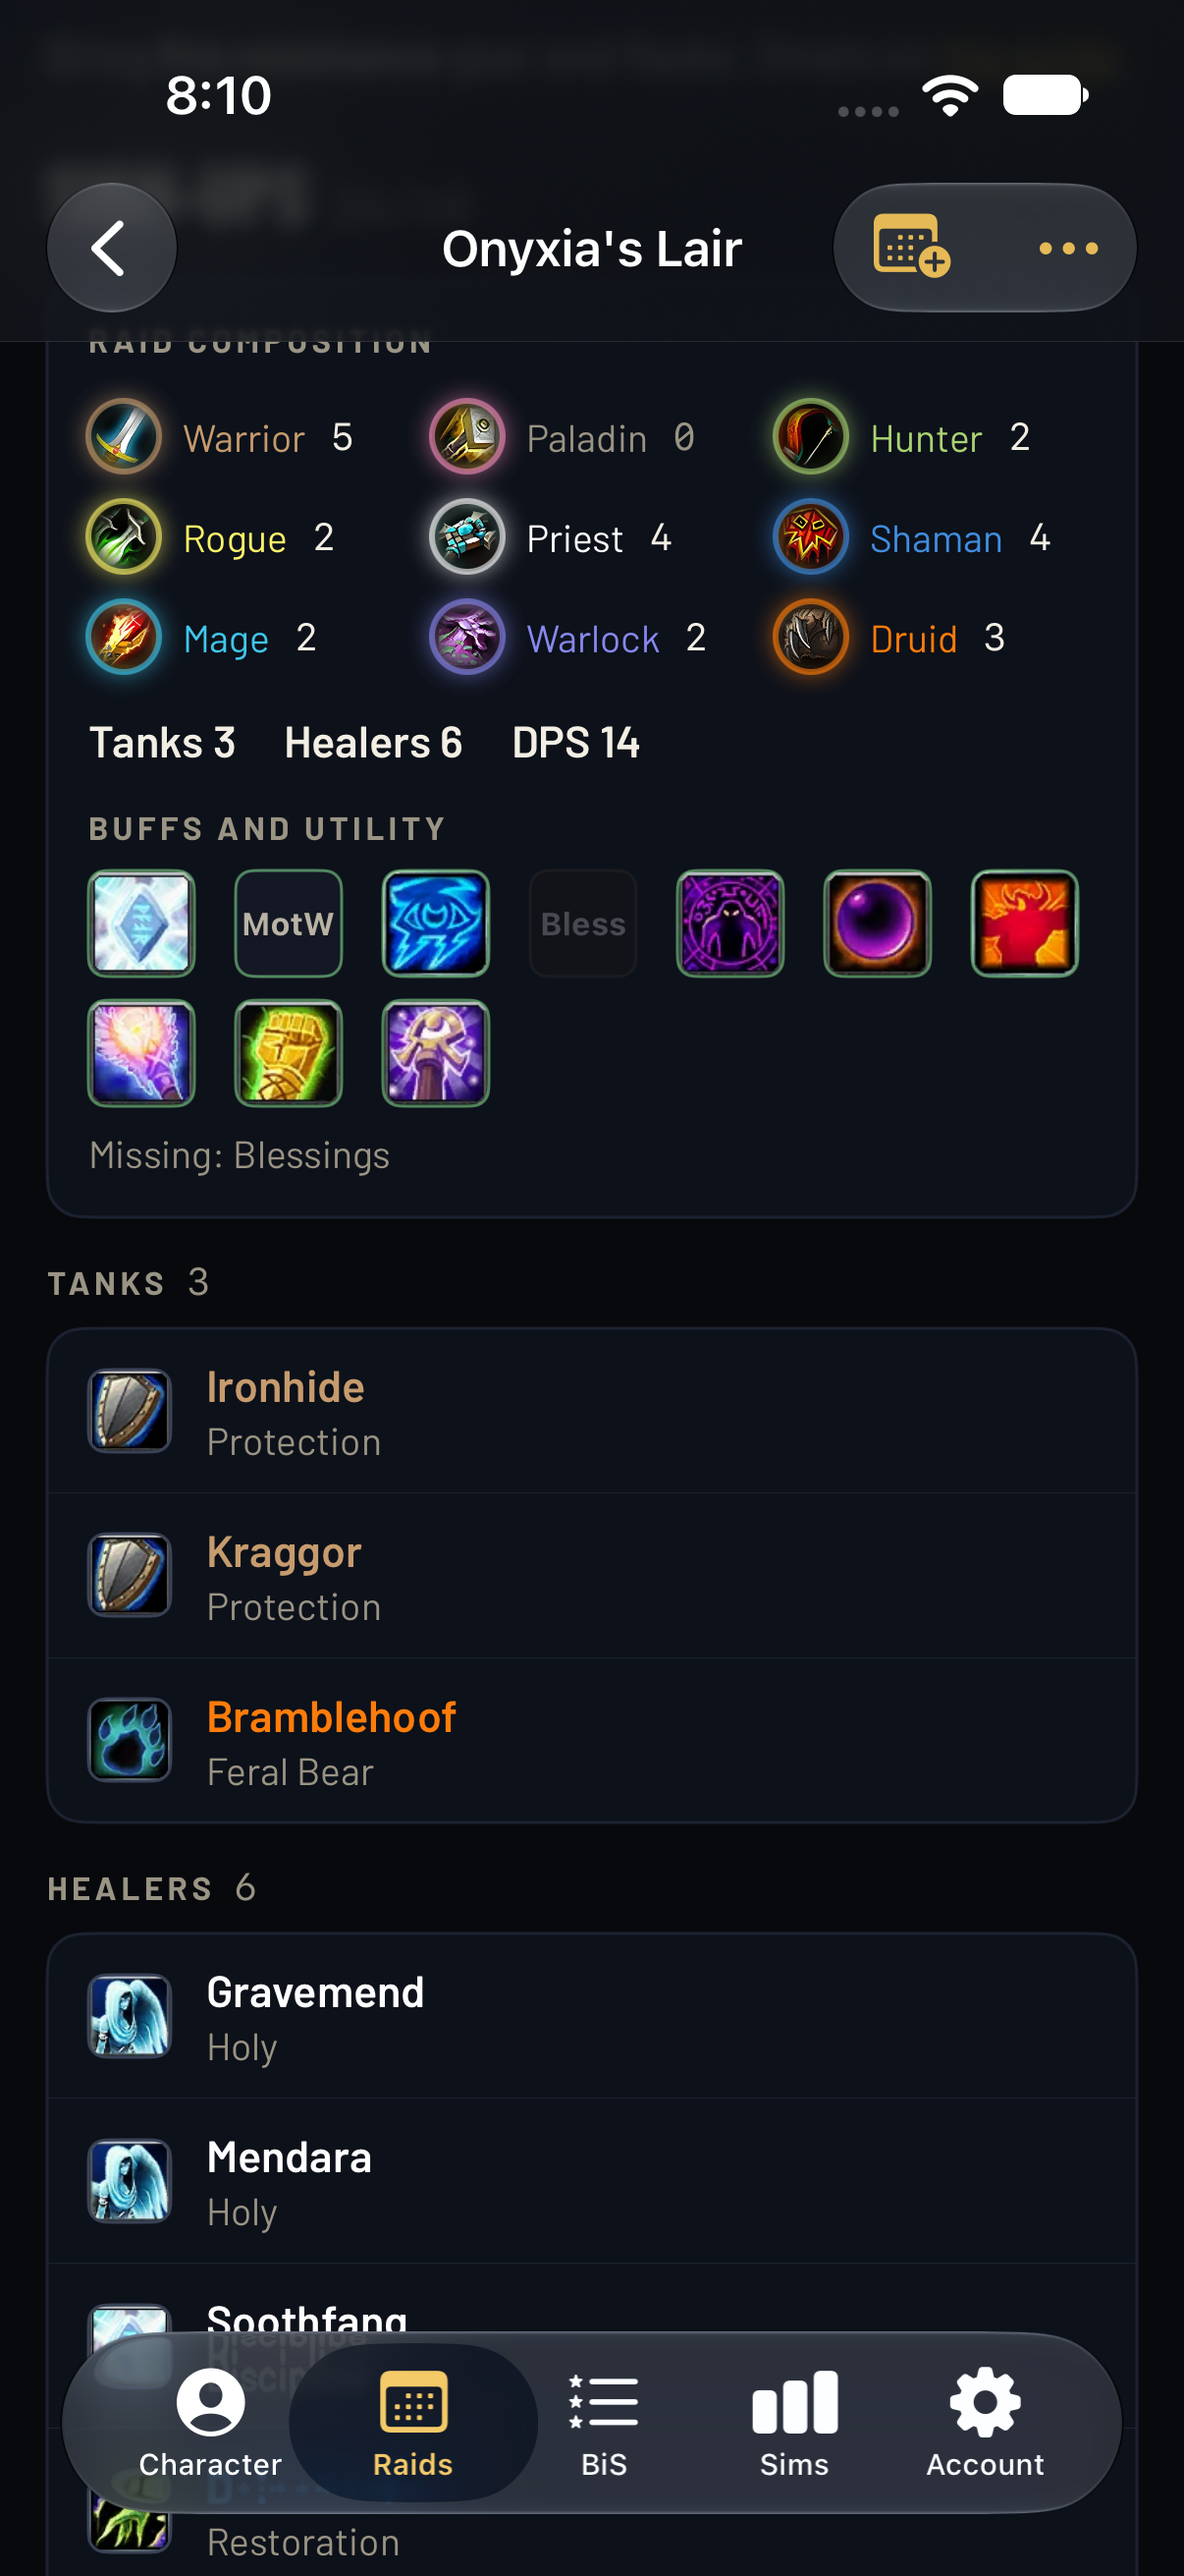
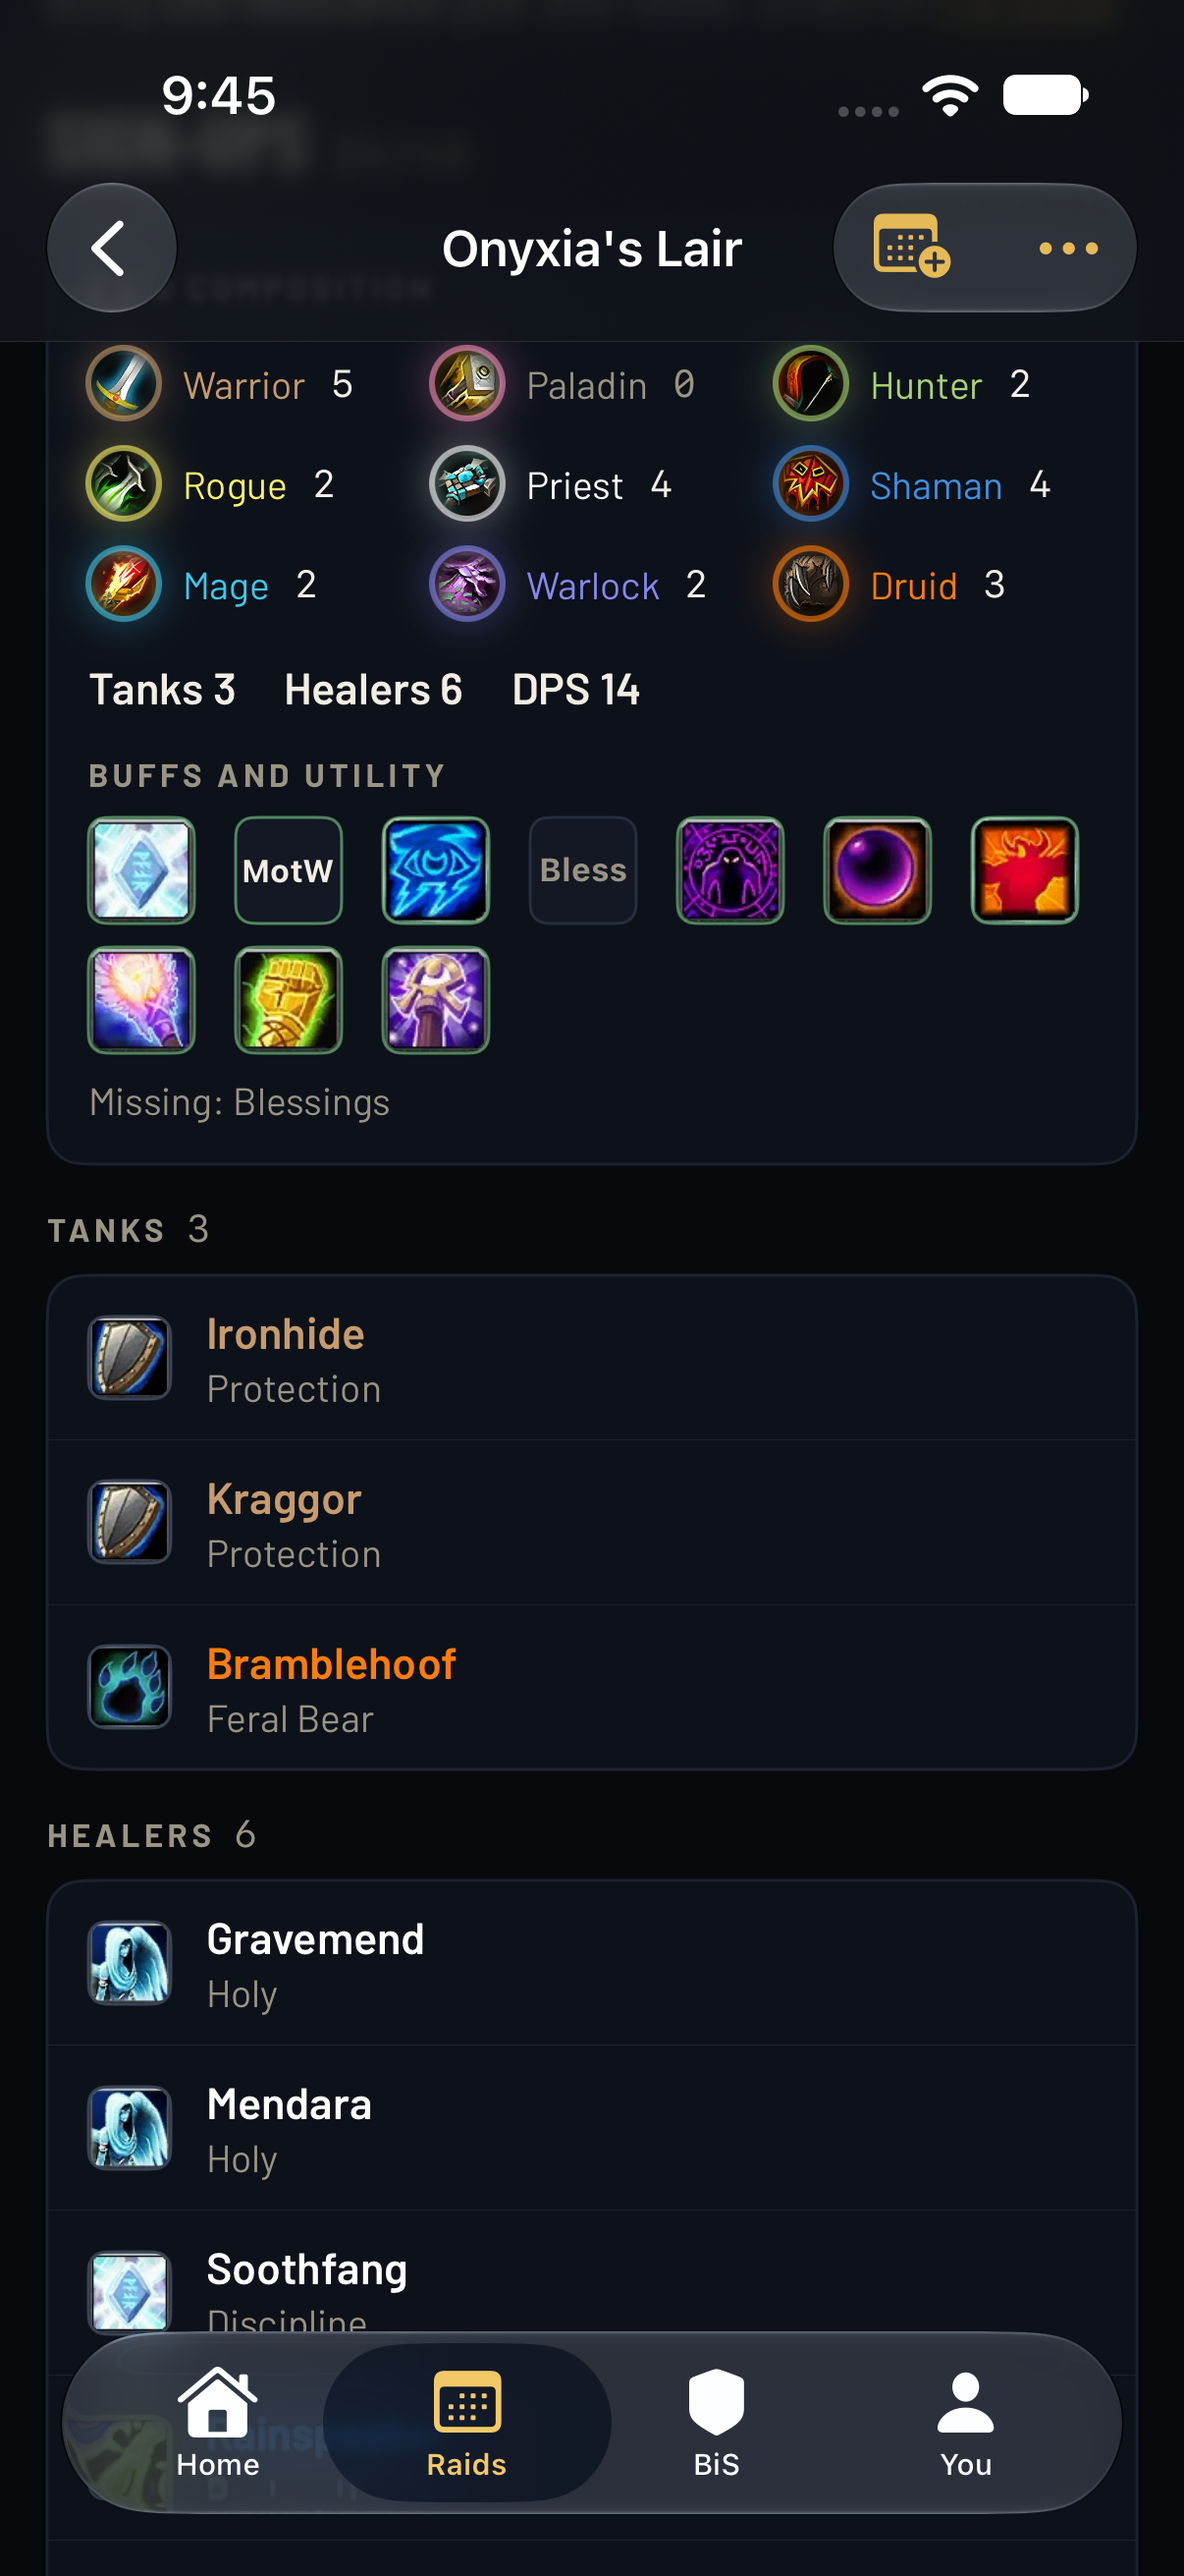
fix(ios): the Raids bar matches Home and BiS under the selector; integration C captures
Captures in design/reviews/2026-10-31-mobile-raids: the selector on Home, Raids and BiS on
both platforms (Android at font scale 1.0, 1.3 and 2.0), and the composition block with live
icons and the readable Bless label.

diff --git a/apps/ios/UITests/RaidCaptureTests.swift b/apps/ios/UITests/RaidCaptureTests.swift
@@ -104,11 +104,15 @@ final class RaidCaptureTests: XCTestCase {
     /// (the same toolbar slot as Home and BiS), then Home's for the side-by-side.
     func testRaidsTabUnderTheSelector() throws {
         let app = launch(["-FSTab", "you"])
-        let signIn = app.buttons["Sign in with Battle.net"].firstMatch
-        XCTAssertTrue(signIn.waitForExistence(timeout: 15))
-        signIn.tap()
+        // A session kept from an earlier run is already signed in (You shows Sign out).
+        let signIn = app.buttons.matching(NSPredicate(format: "label CONTAINS[c] 'Battle.net'")).firstMatch
+        if !app.buttons["Sign out"].waitForExistence(timeout: 5) {
+            XCTAssertTrue(signIn.waitForExistence(timeout: 15))
+            signIn.tap()
+        }
         app.tabBars.buttons["Raids"].tap()
-        XCTAssertTrue(app.staticTexts["OLYMPUS XXVII"].waitForExistence(timeout: 15))
+        // The guild head reads as one element, so wait on the next raid card's link.
+        XCTAssertTrue(app.buttons.matching(NSPredicate(format: "label BEGINSWITH 'Who is coming'")).firstMatch.waitForExistence(timeout: 15))
         sleep(3)
         try save("selector-raids-ios.png")
         app.tabBars.buttons["Home"].tap()

diff --git a/apps/ios/App/Raids/RaidsTab.swift b/apps/ios/App/Raids/RaidsTab.swift
@@ -119,6 +119,9 @@ struct RaidsTab: View {
             .navigationTitle(Copy.tabRaids)
             .toolbarTitleDisplayMode(.inline)
             .characterSelector(isOn: session != nil)
+            // Under the selector the bar matches Home and BiS: no title beside it (the title still
+            // names the back button on the pushed raid page).
+            .toolbar(removing: session != nil ? .title : nil)
             .navigationDestination(for: RaidsRoute.self) { destination($0) }
         }
         .environment(\.raidIconBuild, iconBuild)
